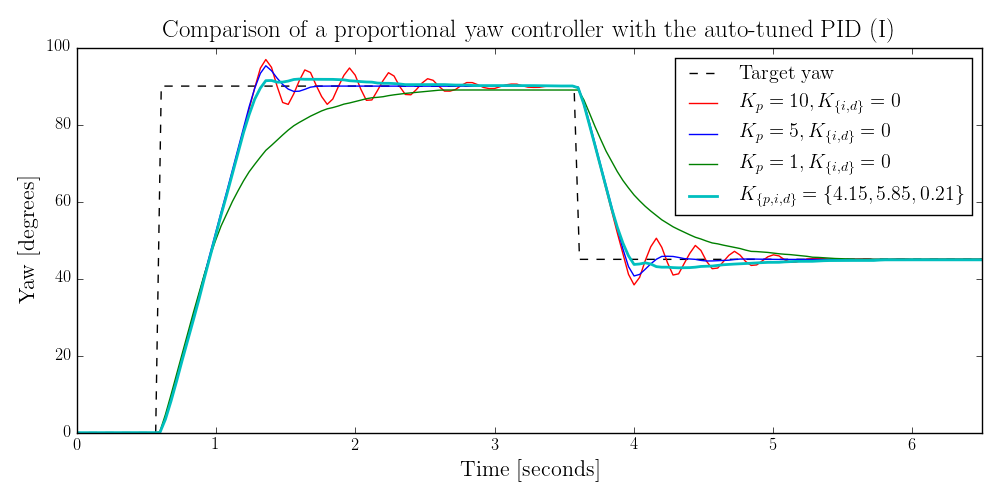
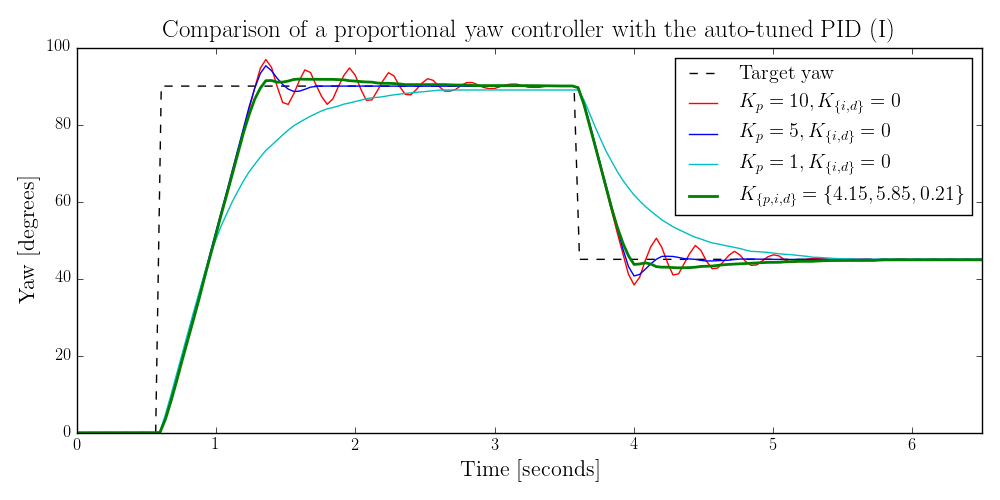
Marked the PID line as green

diff --git a/Software/PID_calib/response_sinusoid/plot_pid_response.py b/Software/PID_calib/response_sinusoid/plot_pid_response.py
@@ -37,8 +37,8 @@ toffset = 2000
 ax.plot((pid_response4[:,0]-2000)/1000.+0.09,pid_response4[:,2]*180./np.pi,'--k')
 ax.plot((pid_response3[:,0]-2000)/1000.,pid_response3[:,1]*180./np.pi,'r')
 ax.plot((pid_response2[:,0]-2000)/1000.,pid_response2[:,1]*180./np.pi,'b')
-ax.plot((pid_response1[:,0]-2000)/1000.,pid_response1[:,1]*180./np.pi,'g')
-ax.plot((pid_response4[:,0]-2000)/1000.,pid_response4[:,1]*180./np.pi,'c',linewidth=2)
+ax.plot((pid_response1[:,0]-2000)/1000.,pid_response1[:,1]*180./np.pi,'c')
+ax.plot((pid_response4[:,0]-2000)/1000.,pid_response4[:,1]*180./np.pi,'g',linewidth=2)
 
 #f, ax = subplots(1,figsize=(10,5))
 #time_seconds = (pid_response4[:,0]-8500)/1000.

diff --git a/Software/PID_calib/response_step/plot_pid_response.py b/Software/PID_calib/response_step/plot_pid_response.py
@@ -38,8 +38,8 @@ time_seconds = (pid_response4[:,0]-8500)/1000.
 ax.plot(time_seconds+0.05,pid_response1[:,2]*180./np.pi,'--k')
 ax.plot(time_seconds,pid_response3[:,1]*180./np.pi,'r')
 ax.plot(time_seconds,pid_response2[:,1]*180./np.pi,'b')
-ax.plot(time_seconds,pid_response1[:,1]*180./np.pi,'g')
-ax.plot(time_seconds,pid_response4[:,1]*180./np.pi,'c',linewidth=2)
+ax.plot(time_seconds,pid_response1[:,1]*180./np.pi,'c')
+ax.plot(time_seconds,pid_response4[:,1]*180./np.pi,'g',linewidth=2)
 
 ax.legend(["Target yaw","$K_p=10, K_{\{i,d\}}=0$","$K_p=5, K_{\{i,d\}}=0$","$K_p=1, K_{\{i,d\}}=0$","$K_{\{p,i,d\}}=\{4.15,5.85,0.21\}$"])
 
